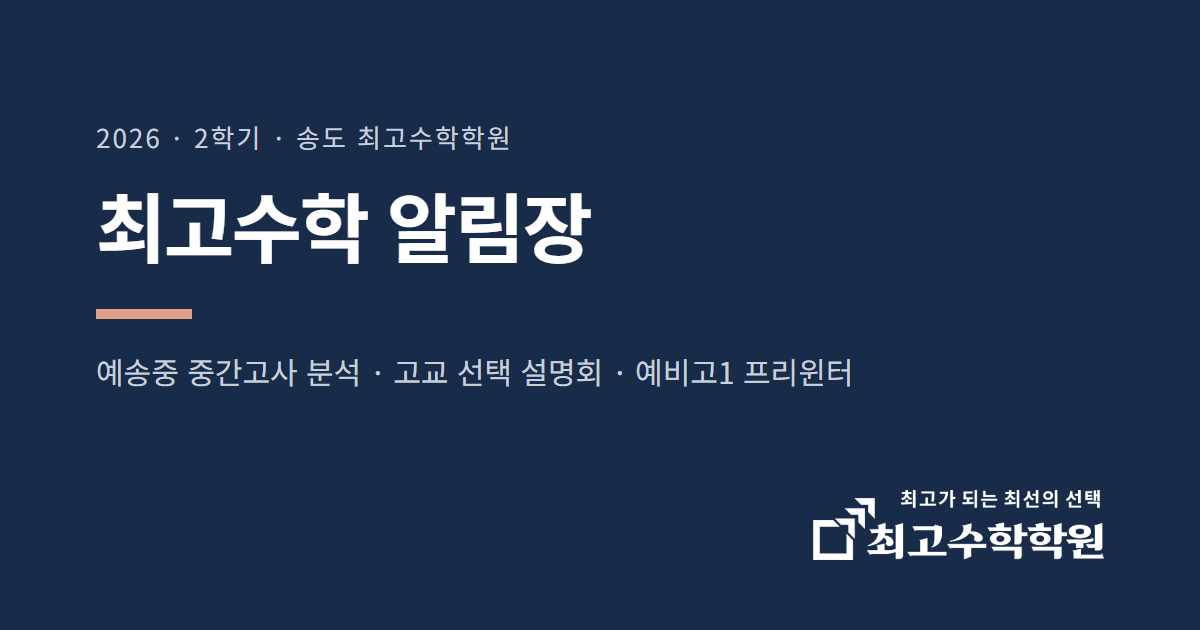
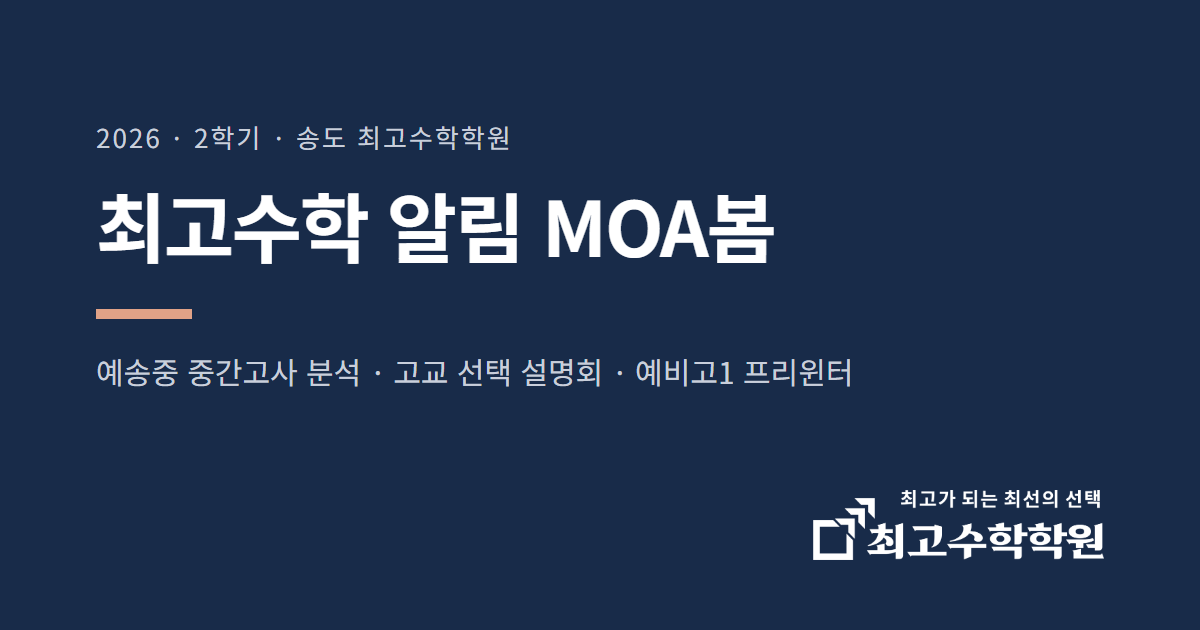
notice: 제목 '최고수학 알림 MOA봄', 안내 문장 수정

Changed region(s): [[0.4317, 0.3016, 0.6475, 0.4222]]

diff --git a/notice/index.html b/notice/index.html
@@ -4,11 +4,11 @@
 <meta charset="utf-8">
 <meta name="viewport" content="width=device-width, initial-scale=1">
 <meta name="robots" content="noindex, nofollow">
-<title>최고수학 알림장 | 송도 최고수학학원</title>
-<meta name="description" content="송도 최고수학학원 학부모 알림장 — 예송중 2학기 중간고사 분석(중1·중2·중3), 고교 선택 설명회, 2027 예비고1 프리윈터">
+<title>최고수학 알림 MOA봄 | 송도 최고수학학원</title>
+<meta name="description" content="송도 최고수학학원 학부모 알림 MOA봄 — 예송중 2학기 중간고사 분석(중1·중2·중3), 고교 선택 설명회, 2027 예비고1 프리윈터">
 <meta property="og:type" content="website">
 <meta property="og:site_name" content="최고수학학원">
-<meta property="og:title" content="최고수학 알림장 · 송도 최고수학학원">
+<meta property="og:title" content="최고수학 알림 MOA봄 · 송도 최고수학학원">
 <meta property="og:description" content="예송중 중간고사 분석 · 고교 선택 설명회 · 예비고1 프리윈터">
 <meta property="og:image" content="https://best-eight-gold.vercel.app/notice/og-image.png">
 <meta property="og:image:width" content="1200">
@@ -47,9 +47,9 @@ footer strong{color:var(--sub);font-weight:600}
[1 lines of base64/hex data omitted]
   <div class="hero">
     <div class="k nw">2026 · 2학기 · 학부모님께</div>
-    <h1>최고수학 알림장</h1>
+    <h1>최고수학 알림 MOA봄</h1>
     <div class="bar"></div>
-    <p class="lead">학부모님께 전해 드릴 소식을 알림장처럼 한곳에 모았습니다. 궁금하신 소식을 눌러 확인해 주세요.</p>
+    <p class="lead">학부모님들께 전해 드릴 소식을 한곳에 모았습니다. 궁금하신 소식을 눌러서 확인해 주세요.</p>
   </div>
   <section>
     <h2>시험 분석 소식 · 예송중 2학기 중간고사</h2>
